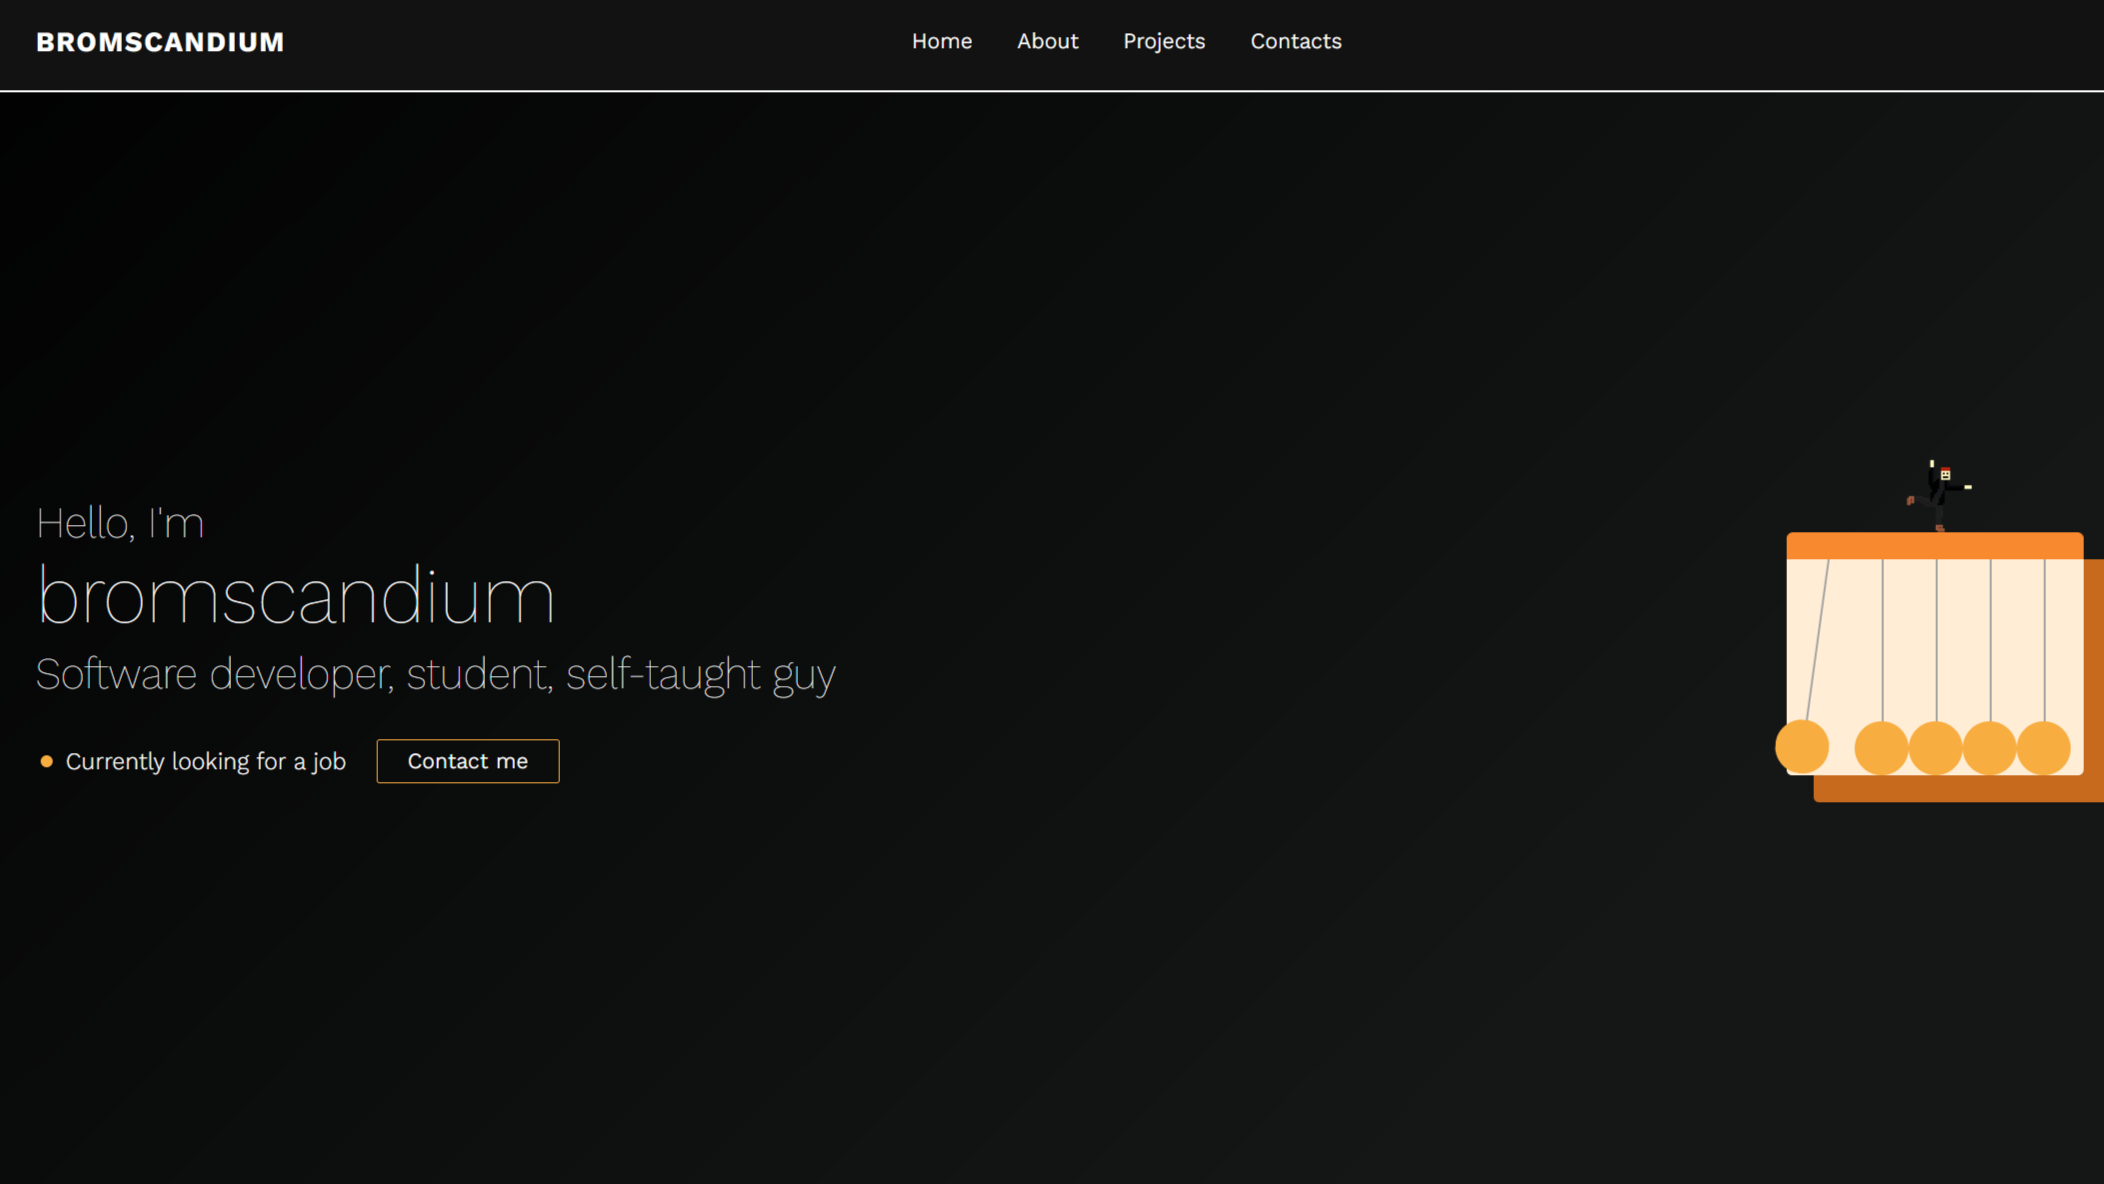
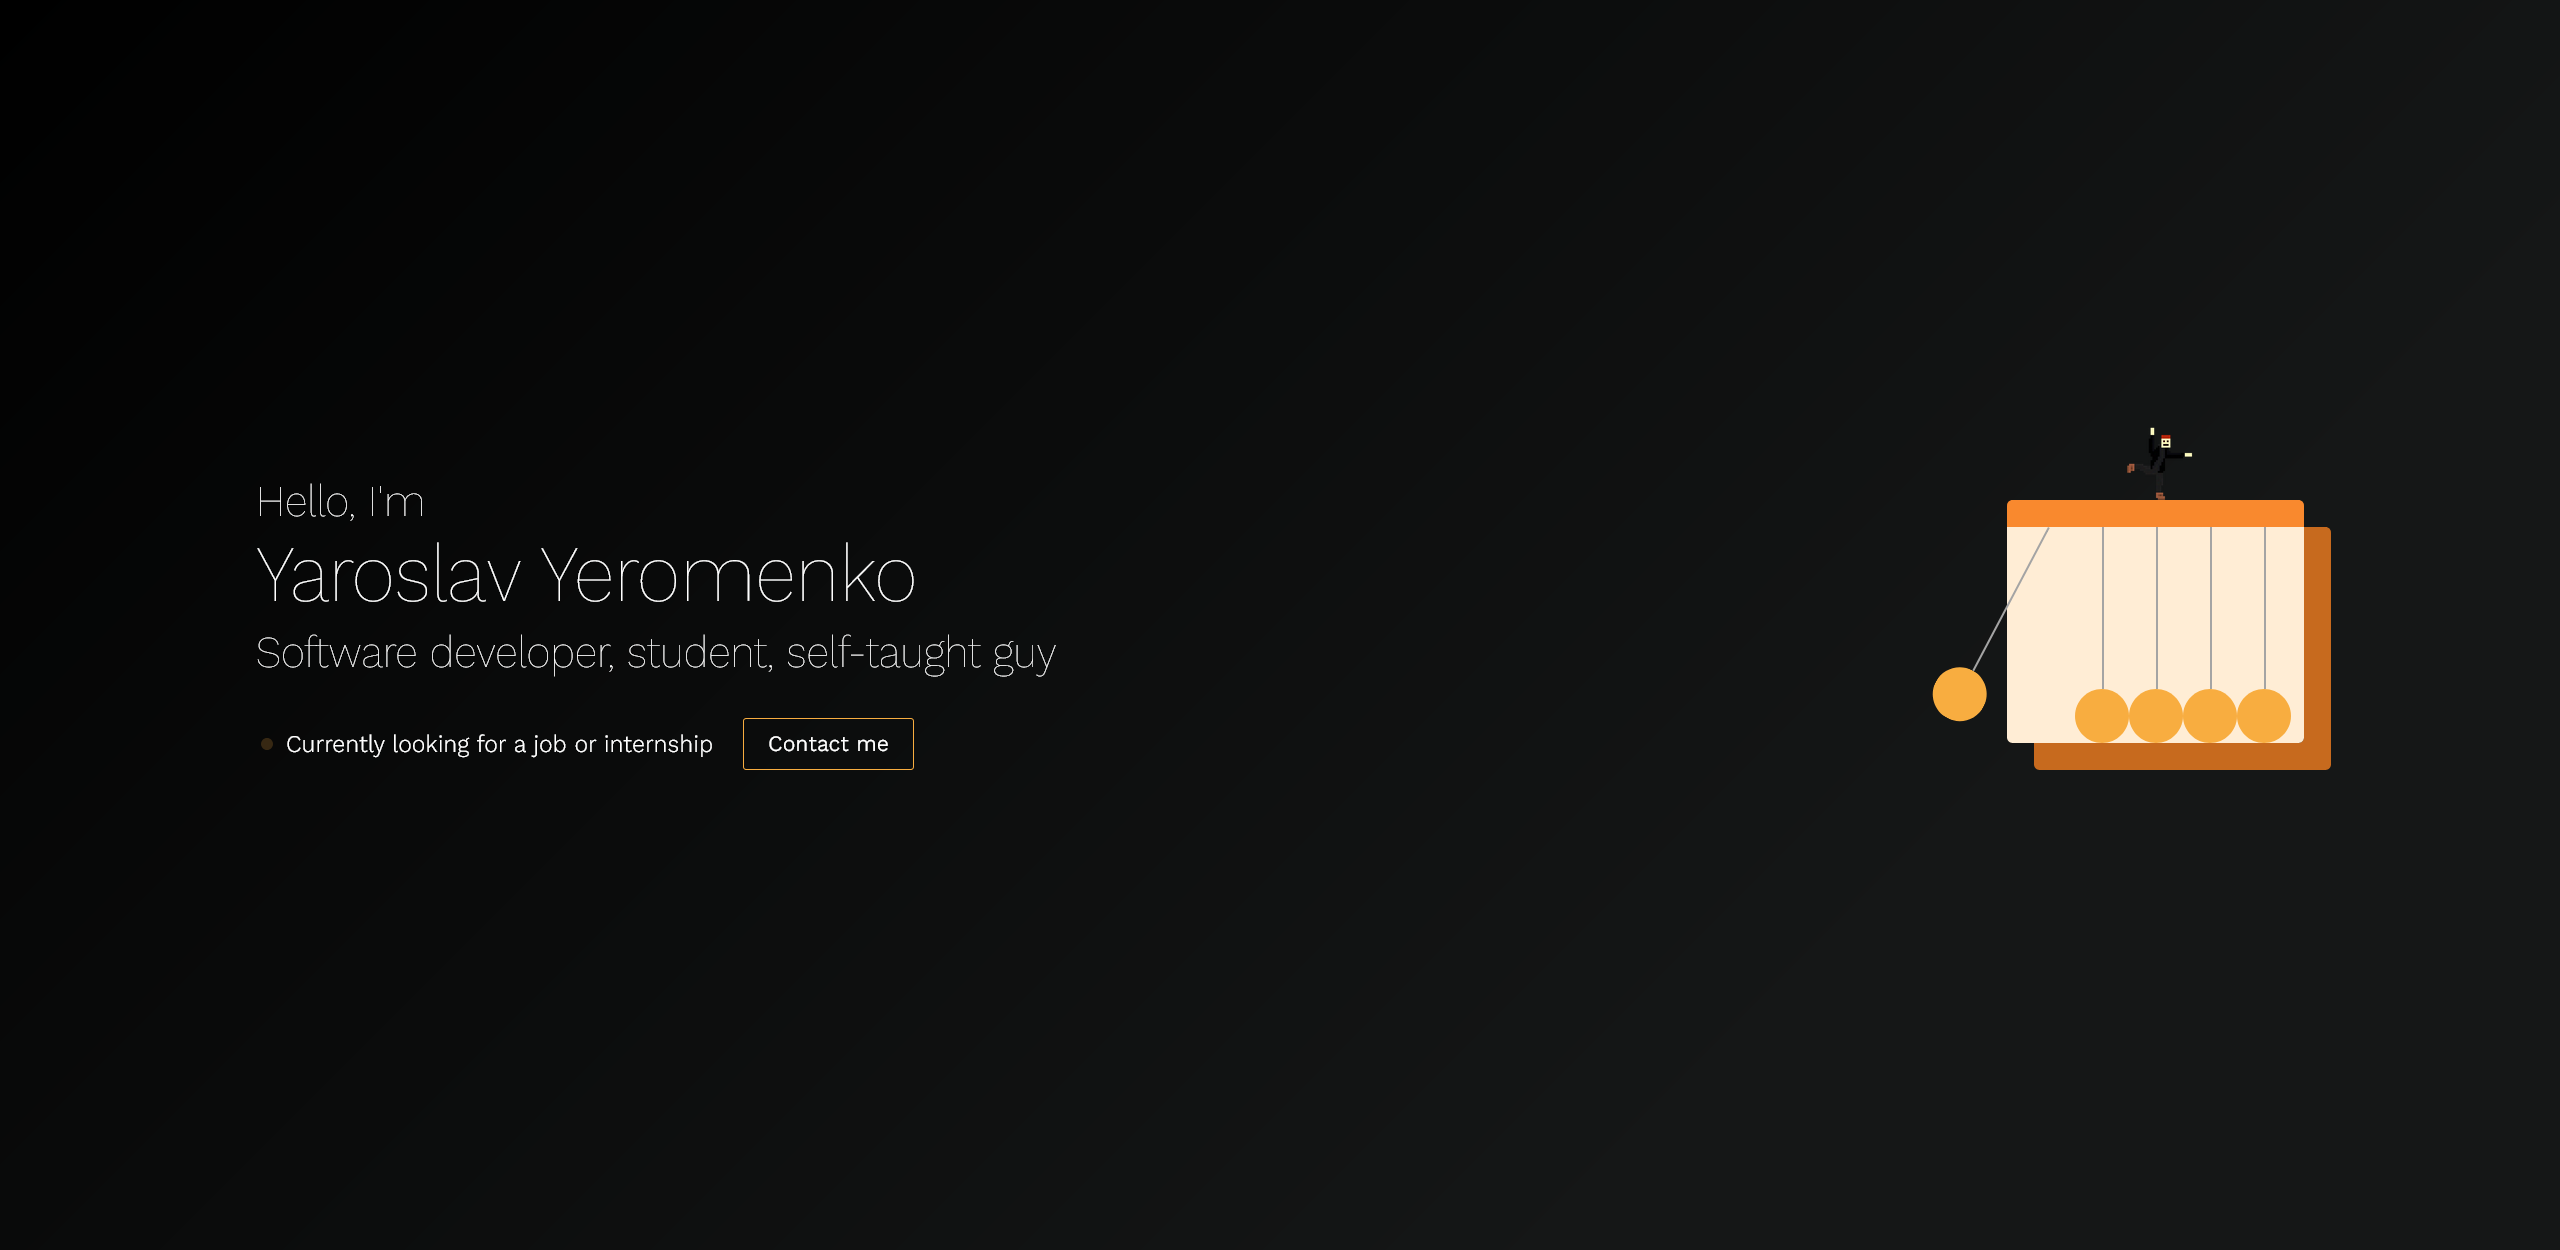
commit

diff --git a/src/components/List/List.sass b/src/components/List/List.sass
@@ -3,19 +3,23 @@
     color: #fff
     padding: 40px 10%
     position: relative
-    max-width: 1600px
+
     margin: 0 auto
 
     &.highlight::before
         opacity: 1
 
-    h1
-        text-align: left
-        font-size: 60px
-        margin-bottom: 20px
-        letter-spacing: 3px
-        color: #ffffff
-        font-weight: 100
+    .list-header
+        max-width: 1600px
+        margin: 0 auto
+
+        h1
+            text-align: left
+            font-size: 60px
+            margin-bottom: 20px
+            letter-spacing: 3px
+            color: #ffffff
+            font-weight: 100
 
     .projects-grid
         display: grid
@@ -89,6 +93,7 @@
                     align-items: center
                     border: 1px solid #f8ad40
                     background: rgba(248, 173, 64, 0.2)
+                    border-radius: 3px
 
                 .projects-button
                     padding: 12px 24px
@@ -97,7 +102,7 @@
                     border: 1px solid #f8ad40
                     color: #ffffff
                     background: transparent
-                    border-radius: 6px
+                    border-radius: 3px
                     text-decoration: none
                     transition: all 0.3s ease
 
@@ -106,7 +111,6 @@
 
                     .projects-button-icon
                         color: #ffffff
-
 
 
                 .github-button
@@ -126,12 +130,48 @@
 
 @media (max-width: 1024px)
     .list
+        padding: 40px 4%
+
+        .list-header
+            h1
+                font-size: 50px
+                text-align: center
+
         .projects-grid
             grid-template-columns: repeat(2, 1fr)
 
+            .projects-tags
+                .tag
+                    font-size: 14px
+
+            .projects-card
+                .projects-content
+                    h3
+                        font-size: 20px
+                    p
+                        font-size: 18px
+
 @media (max-width: 768px)
     .list
+        padding: 40px 2%
+
+        .list-header
+            h1
+                font-size: 44px
+                text-align: center
+
+        .projects-tags
+            .tag
+                font-size: 12px
+
         .projects-grid
             grid-template-columns: 1fr
-        .projects-card
-            padding: 10px 0
+
+            .projects-card
+                padding: 10px 0
+
+                .projects-content
+                    h3
+                        font-size: 20px
+                    p
+                        font-size: 16px

diff --git a/src/components/List/List.jsx b/src/components/List/List.jsx
@@ -1,5 +1,5 @@
 import {useEffect} from "react";
-import {FaGithub, FaExternalLinkAlt, FaLink} from "react-icons/fa";  // Додаємо FaExternalLinkAlt або FaLink
+import {FaGithub, FaExternalLinkAlt} from "react-icons/fa";
 import projects from "../../data/listData.js";
 import "./List.sass";
 import {useHighlightAnimation} from "../../hooks/useHighlightAnimation.js";
@@ -15,8 +15,12 @@ function List({onHighlightReady}) {
 
     return (
         <div ref={ref} className={`list ${isHighlighted ? "highlight" : ""}`} id="list">
-            <h1>Projects</h1>
+            <div className="list-header">
+                <h1>Projects</h1>
+            </div>
+
             <div className="projects-grid">
+
                 {projects.map((project) => (
                     <div key={project.id} className="projects-card">
                         <img src={project.image} alt={project.title} className="projects-image"/>

diff --git a/src/components/Header/MobileNavigation.jsx b/src/components/Header/MobileNavigation.jsx
@@ -88,7 +88,7 @@ function MobileNavigation({
                     <div className="social-icons">
                         <a href="mailto:kkmshbiu@protonmail.com" target="_blank" rel="noopener noreferrer"
                            className="contact-icon"><FaEnvelope size={32}/></a>
-                        <a href="https://www.linkedin.com/in/yaroslav.yeromenko" target="_blank"
+                        <a href="https://www.linkedin.com/in/yaroslav-yeromenko/" target="_blank"
                            rel="noopener noreferrer"
                            className="contact-icon"><FaLinkedin size={32}/></a>
                         <a href="https://github.com/bromscandium" target="_blank" rel="noopener noreferrer"

diff --git a/src/components/Footer/Footer.jsx b/src/components/Footer/Footer.jsx
@@ -33,7 +33,7 @@ function Footer({ onHighlightReady }) {
                             <FaEnvelope size={32} />
                             <span className="tooltip">Email me</span>
                         </a>
-                        <a href="https://www.linkedin.com/in/yaroslav.yeromenko" target="_blank" rel="noopener noreferrer">
+                        <a href="https://www.linkedin.com/in/yaroslav-yeromenko/" target="_blank" rel="noopener noreferrer">
                             <FaLinkedin size={32} />
                             <span className="tooltip">LinkedIn</span>
                         </a>

diff --git a/src/components/Banner/Banner.jsx b/src/components/Banner/Banner.jsx
@@ -21,7 +21,7 @@ function Banner({onHighlightReady}) {
         <div ref={ref} className={`banner ${isHighlighted ? "highlight" : ""}`} id="home">
             <div className="banner-content">
                 <h2>Hello, I'm</h2>
-                <h1>bromscandium</h1>
+                <h1>Yaroslav Yeromenko</h1>
                 <h2>Software developer, student, self-taught guy</h2>
                 <div className={`job-info ${isLoaded ? 'loaded' : ''}`}>
                     <h3>Currently looking for a job or internship</h3>

diff --git a/src/data/listData.js b/src/data/listData.js
@@ -64,7 +64,7 @@ const listData = [
         ],
         technologies: ["React", "SASS", "Vite", "UX/UI", "Web Design"],
         live: null,
-        github: "https://github.com/bromscandium/own-profile"
+        github: "https://github.com/bromscandium/portfolio/tree/main"
     }
 ];
 
